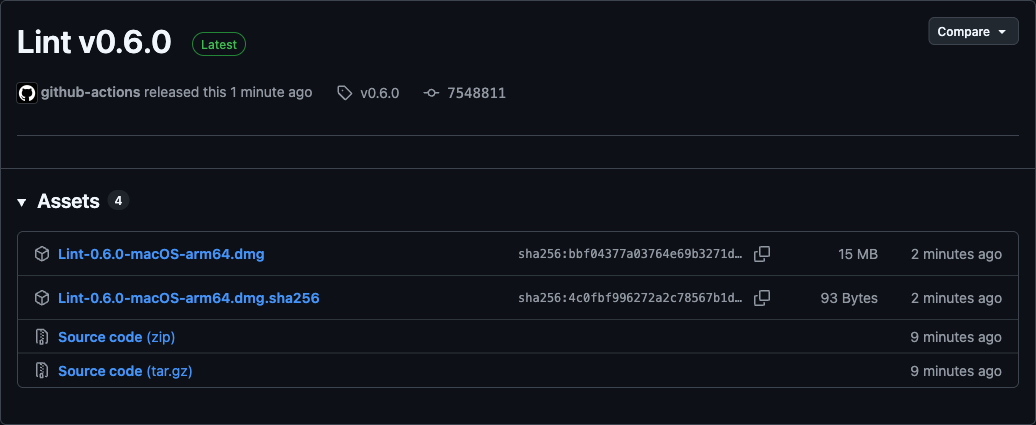
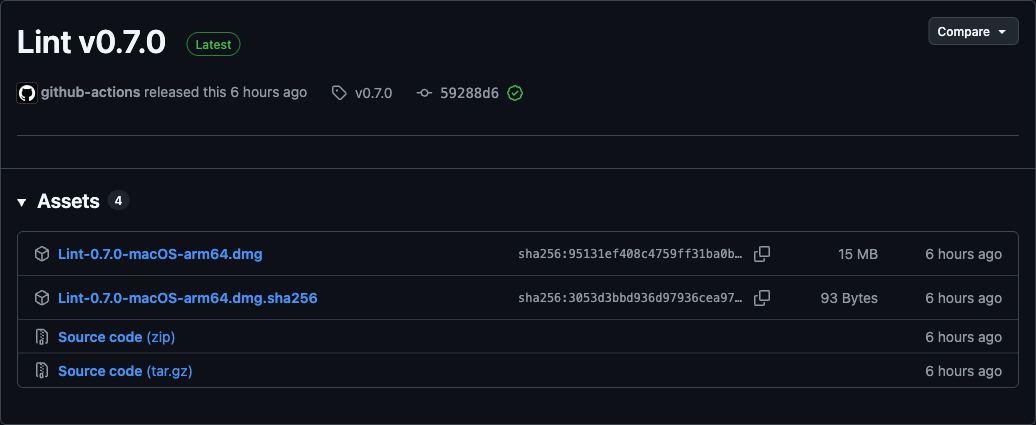
Show v0.7.0 and the native speaker tone in the README and the site.
The download step of the guide now names the 0.7.0 files and shows the v0.7.0
release page; the guide, the overview and the README explain the native
speaker tone with a real example and say to read the result before replacing
the original.

diff --git a/docs/guide.html b/docs/guide.html
@@ -118,7 +118,7 @@
         <span class="zh">從下載到第一個建議，一步一步來。每一步都會告訴你，繼續之前應該看到什麼。</span>
       </p>
       <ul class="chips">
-        <li>Lint 0.6.0</li>
+        <li>Lint 0.7.0</li>
         <li>macOS 14+</li>
         <li>Apple Silicon</li>
       </ul>
@@ -202,16 +202,16 @@
 
       <article class="step">
         <div class="step-head"><span class="step-num">1</span><h3><span class="en">Download the DMG</span><span class="zh">下載 DMG</span></h3></div>
-        <p class="en">Open <a href="https://github.com/davislinyd/Lint/releases/latest" target="_blank" rel="noopener noreferrer">the latest release on GitHub</a> and click <code>Lint-0.6.0-macOS-arm64.dmg</code> under <strong>Assets</strong>. A newer release has a newer number in the name.</p>
-        <p class="zh">打開 <a href="https://github.com/davislinyd/Lint/releases/latest" target="_blank" rel="noopener noreferrer">GitHub 上的最新版本</a>，在 <strong>Assets</strong> 下點 <code>Lint-0.6.0-macOS-arm64.dmg</code>。之後的版本檔名裡的版本號會不同。</p>
+        <p class="en">Open <a href="https://github.com/davislinyd/Lint/releases/latest" target="_blank" rel="noopener noreferrer">the latest release on GitHub</a> and click <code>Lint-0.7.0-macOS-arm64.dmg</code> under <strong>Assets</strong>. A newer release has a newer number in the name.</p>
+        <p class="zh">打開 <a href="https://github.com/davislinyd/Lint/releases/latest" target="_blank" rel="noopener noreferrer">GitHub 上的最新版本</a>，在 <strong>Assets</strong> 下點 <code>Lint-0.7.0-macOS-arm64.dmg</code>。之後的版本檔名裡的版本號會不同。</p>
         <p class="check en">The DMG is in your Downloads folder.</p>
         <p class="check zh">「下載項目」資料夾裡有這個 DMG。</p>
         <figure>
-          <a class="shot flat" href="assets/guide/shared/github-release.png" target="_blank" rel="noopener"><img src="assets/guide/shared/github-release.png" alt="The Lint v0.6.0 release on GitHub with the DMG under Assets" width="1036" height="425" loading="lazy"></a>
+          <a class="shot flat" href="assets/guide/shared/github-release.png" target="_blank" rel="noopener"><img src="assets/guide/shared/github-release.png" alt="The Lint v0.7.0 release on GitHub with the DMG under Assets" width="1036" height="425" loading="lazy"></a>
           <figcaption><span class="en">Click the <code>.dmg</code> file under Assets.</span><span class="zh">在 Assets 下點 <code>.dmg</code> 檔。</span></figcaption>
         </figure>
-        <div class="note en"><p><strong>Optional:</strong> to check the download, also get <code>Lint-0.6.0-macOS-arm64.dmg.sha256</code>, then run <code>shasum -a 256 -c Lint-0.6.0-macOS-arm64.dmg.sha256</code> in Terminal, in the folder that holds both files. It prints <code>OK</code>.</p></div>
-        <div class="note zh"><p><strong>選用：</strong>想確認下載無誤，可以一併下載 <code>Lint-0.6.0-macOS-arm64.dmg.sha256</code>，在放著這兩個檔案的資料夾打開「終端機」，執行 <code>shasum -a 256 -c Lint-0.6.0-macOS-arm64.dmg.sha256</code>，會印出 <code>OK</code>。</p></div>
+        <div class="note en"><p><strong>Optional:</strong> to check the download, also get <code>Lint-0.7.0-macOS-arm64.dmg.sha256</code>, then run <code>shasum -a 256 -c Lint-0.7.0-macOS-arm64.dmg.sha256</code> in Terminal, in the folder that holds both files. It prints <code>OK</code>.</p></div>
+        <div class="note zh"><p><strong>選用：</strong>想確認下載無誤，可以一併下載 <code>Lint-0.7.0-macOS-arm64.dmg.sha256</code>，在放著這兩個檔案的資料夾打開「終端機」，執行 <code>shasum -a 256 -c Lint-0.7.0-macOS-arm64.dmg.sha256</code>，會印出 <code>OK</code>。</p></div>
       </article>
     </section>
 
@@ -330,8 +330,8 @@
     <!-- ============================================================ -->
     <section class="part" id="use">
       <h2><span class="en">Use Lint</span><span class="zh">開始使用</span></h2>
-      <p class="part-lead en">Lint works in any app where you can select text: Mail, Notes, browsers, Slack and more. It edits English; <strong>Translate</strong> helps you read English text in the translation language you choose.</p>
-      <p class="part-lead zh">只要能選取文字的 App 都能用 Lint：郵件、備忘錄、瀏覽器、Slack 等。Lint 修改英文；<strong>「翻譯」</strong>則把英文翻成你選的翻譯語言，幫你讀懂。</p>
+      <p class="part-lead en">Lint works in any app where you can select text: Mail, Notes, browsers, Slack and more. It edits English, and the <strong>Native speaker</strong> tone writes Chinese or mixed text as English; <strong>Translate</strong> helps you read English text in the translation language you choose.</p>
+      <p class="part-lead zh">只要能選取文字的 App 都能用 Lint：郵件、備忘錄、瀏覽器、Slack 等。Lint 修改英文，「母語人士」語氣會把中文或中英夾雜的文字寫成英文；<strong>「翻譯」</strong>則把英文翻成你選的翻譯語言，幫你讀懂。</p>
 
       <article class="step">
         <div class="step-head"><span class="step-num">7</span><h3><span class="en">Quick check: <span class="kbd-inline">⌥⌘K</span></span><span class="zh">快速檢查：<span class="kbd-inline">⌥⌘K</span></span></h3></div>
@@ -360,6 +360,8 @@
           <li><strong>語氣</strong>：保留原語氣、正式、簡潔、專業，或「母語人士」（只有校對有；輸出一律是英文，中文也可以）。</li>
           <li><strong>覆蓋取代</strong> <span class="kbd-inline">⌘⏎</span>、<strong>複製</strong> <span class="kbd-inline">⌥⌘C</span>、<strong>重試</strong> <span class="kbd-inline">⌥⌘⏎</span>。勾選<strong>「編輯」</strong>可以先修改結果再使用。</li>
         </ul>
+        <div class="note en"><p><strong>Native speaker</strong> is for when you know what you mean but not how to say it. Select Chinese, English or both, and Lint writes it the way a native English speaker would, always in English. For example, 「抱歉，這個需求我們這季排不進去，下季再評估看看。」 becomes “Sorry, we can't fit this request into this quarter. Let's reassess it next quarter.” The reference translation under the suggestion shows what the English says. Read the result before you replace the original: the small local model sometimes rewords text that was already natural.</p></div>
+        <div class="note zh"><p><strong>「母語人士」</strong>適合知道想說什麼、卻不知道英文怎麼說的時候。選取中文、英文或中英夾雜的文字，Lint 會用英語母語者會說的方式寫出來，輸出一律是英文。例如「抱歉，這個需求我們這季排不進去，下季再評估看看。」會變成 “Sorry, we can't fit this request into this quarter. Let's reassess it next quarter.”。建議下方的參考譯文會顯示這段英文在說什麼。取代原文之前請先看過結果：本機的小型模型有時會把本來就很道地的句子改寫。</p></div>
         <figure>
           <a class="shot en" href="assets/guide/en/panel.png" target="_blank" rel="noopener"><img src="assets/guide/en/panel.png" alt="The full panel: the original on the left, the result with changes marked on the right" width="872" height="600" loading="lazy"></a>
           <a class="shot zh" href="assets/guide/zh/panel.png" target="_blank" rel="noopener"><img src="assets/guide/zh/panel.png" alt="全面板：左邊是原文，右邊是標出修改處的結果" width="872" height="600" loading="lazy"></a>

diff --git a/docs/index.html b/docs/index.html
@@ -204,8 +204,10 @@
         <h2><span class="en">Every change, side by side</span><span class="zh">每一處修改，並排比對</span></h2>
         <p class="en"><span class="kbd-inline">⌥⌘L</span> opens a panel with your text on the left and the suggestion on the right, every change marked. Edit either side, replace the original, copy it, or ask again.</p>
         <p class="zh"><span class="kbd-inline">⌥⌘L</span> 打開雙欄面板，左邊是原文，右邊是建議，每一處修改都標出來。兩邊都能編輯，可以取代原文、複製，或重新產生。</p>
-        <p class="en"><strong>Proofread &amp; polish</strong> fixes grammar, wrong words and spelling, and keeps correct wording, names, numbers and your layout. Pick a tone: Preserve Tone, Formal, Concise, Professional, or Native Speaker, which takes text in Chinese or English and says it the way a native English speaker would.</p>
-        <p class="zh"><strong>「文法校對與潤飾」</strong>修正文法、用錯的字與拼字，保留正確的用字、人名、數字與版面。語氣可選保留原語氣、正式、簡潔、專業，或「母語人士」：中文或英文都可以，用英語母語者會說的方式寫出來。</p>
+        <p class="en"><strong>Proofread &amp; polish</strong> fixes grammar, wrong words and spelling, and keeps correct wording, names, numbers and your layout. Pick a tone: Preserve Tone, Formal, Concise, Professional or Native Speaker.</p>
+        <p class="zh"><strong>「文法校對與潤飾」</strong>修正文法、用錯的字與拼字，保留正確的用字、人名、數字與版面。語氣可選保留原語氣、正式、簡潔、專業或「母語人士」。</p>
+        <p class="en"><strong>Native speaker</strong> is for when you know what you mean but not how to say it: write it in Chinese, English or a mix, and Lint says it the way a native English speaker would, always in English. 「抱歉，這個需求我們這季排不進去，下季再評估看看。」 becomes “Sorry, we can't fit this request into this quarter. Let's reassess it next quarter.”</p>
+        <p class="zh"><strong>「母語人士」</strong>適合知道想說什麼、卻不知道英文怎麼說的時候：用中文、英文或中英夾雜寫下來，Lint 會用英語母語者會說的方式寫成英文。「抱歉，這個需求我們這季排不進去，下季再評估看看。」會變成 “Sorry, we can't fit this request into this quarter. Let's reassess it next quarter.”。</p>
       </div>
       <figure>
         <a class="shot en" href="assets/guide/en/panel.png" target="_blank" rel="noopener"><img src="assets/guide/en/panel.png" alt="The full panel with the original on the left and the corrected text on the right" width="872" height="600" loading="lazy"></a>
